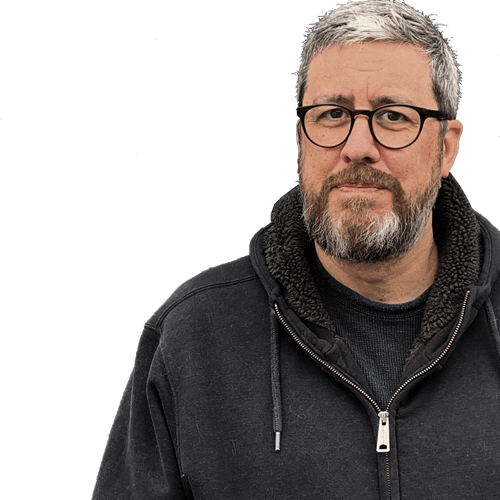
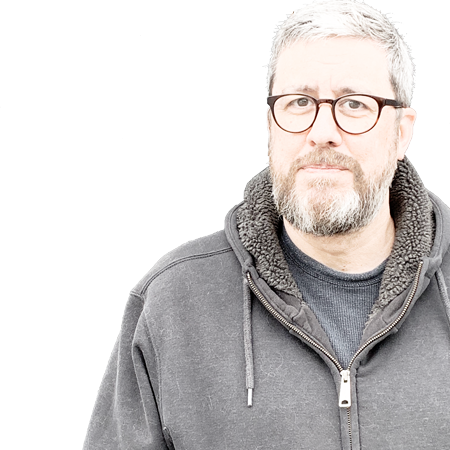
Updated home page
Revised the home page header

diff --git a/index.html b/index.html
@@ -1,92 +1,23 @@
 <!doctype html>
 <html lang="en">
   <head>
-    <!-- Global site tag (gtag.js) - Google Analytics -->
-    <script async src="https://www.googletagmanager.com/gtag/js?id=UA-44441011-2"></script>
-    <script>
-      window.dataLayer = window.dataLayer || [];
-      function gtag(){dataLayer.push(arguments);}
-      gtag('js', new Date());
-    
-      gtag('config', 'UA-44441011-2');
-    </script>
-    <!-- Google Tag Manager -->
-    <script>(function(w,d,s,l,i){w[l]=w[l]||[];w[l].push({'gtm.start':
-    new Date().getTime(),event:'gtm.js'});var f=d.getElementsByTagName(s)[0],
-    j=d.createElement(s),dl=l!='dataLayer'?'&l='+l:'';j.async=true;j.src=
-    'https://www.googletagmanager.com/gtm.js?id='+i+dl;f.parentNode.insertBefore(j,f);
-    })(window,document,'script','dataLayer','GTM-WW8D6FM');</script>
-    <!-- End Google Tag Manager -->
     <meta charset="utf-8">
     <meta name="viewport" content="width=device-width, initial-scale=1">
     <title>Chris Fournier. American Made. Powered by Coffee.</title>
-    <link rel="canonical" href="https://chris.blackcoffeeshoppe.com/">
-    <meta name="robots" content="index, follow">
-    <meta name="theme-color" content="#384332">
-    <meta name="apple-mobile-web-app-status-bar-style" content="#384332">
-    <meta name="apple-mobile-web-app-capable" content="yes">
-    <meta name="author" content="https://chris.blackcoffeeshoppe.com/">
-    <meta name="description" content="I'm a seasoned user experience designer who works in code and Git. I use my background in marketing and user experience design to solve problems and deliver intuitive user experiences.">
-    <meta property="og:description" content="I'm a seasoned user experience designer who works in code and Git. I use my background in marketing and user experience design to solve problems and deliver intuitive user experiences.">
-    <meta property="og:image" content="https://chris.blackcoffeeshoppe.com/assets/icons/thumbnail.jpg">
-    <meta property="og:locale" content="en">
-    <meta property="og:site_name" content="Chris Fournier. American Made. Powered by Coffee.">
-    <meta property="og:title" content="Chris Fournier. American Made. Powered by Coffee.">
-    <meta property="og:type" content="website">
-    <meta property="og:url" content="https://chris.blackcoffeeshoppe.com/">
-    <meta property="article:published_time" content="2020-04-06T01:00:00Z">
-    <meta property="article:author" content="Chris Fournier">
-    <meta property="article:section" content="website">
-    <meta name="twitter:card" content="summary_large_image">
-    <meta name="twitter:domain" content="Chris Fournier. American Made. Powered by Coffee.">
-    <meta name="twitter:url" content="https://chris.blackcoffeeshoppe.com/">
-    <meta name="twitter:site" content="https://chris.blackcoffeeshoppe.com/">
-    <meta name="twitter:creator" content="Chris Fournier">
-    <meta name="twitter:title" content="Chris Fournier. American Made. Powered by Coffee.">
-    <meta name="twitter:description" content="I'm a seasoned user experience designer who works in code and Git. I use my background in marketing and user experience design to solve problems and deliver intuitive user experiences.">
-    <meta name="twitter:image:src" content="https://chris.blackcoffeeshoppe.com/assets/icons/thumbnail.jpg">
-    <meta name="google-site-verification" content="YgnQtrZEtnYHo_da7UW1Ixj8NRA9WNH4MvU5nW0nBvA" />
-    <link rel="canonical" href="https://chris.blackcoffeeshoppe.com/">
-    <link rel="image_src" href="https://chris.blackcoffeeshoppe.com/assets/icons/thumbnail.jpg">
-    <link rel="apple-touch-icon" sizes="180x180" href="https://chris.blackcoffeeshoppe.com/assets/icons/apple-touch-icon.png">
-    <link rel="icon" type="image/png" sizes="32x32" href="https://chris.blackcoffeeshoppe.com/assets/icons/favicon-32x32.png">
-    <link rel="icon" type="image/png" sizes="16x16" href="https://chris.blackcoffeeshoppe.com/assets/icons/favicon-16x16.png">
-    <link rel="manifest" href="https://chris.blackcoffeeshoppe.com/assets/icons/site.webmanifest">
-    <link rel="mask-icon" href="https://chris.blackcoffeeshoppe.com/assets/icons/safari-pinned-tab.svg" color="#384332">
-    <link rel="shortcut icon" href="https://chris.blackcoffeeshoppe.com/assets/icons/favicon.ico">
-    <meta name="msapplication-TileColor" content="#ffffff">
-    <meta name="msapplication-TileImage" content="https://chris.blackcoffeeshoppe.com/assets/icons/mstile-144x144.png">
-    <meta name="msapplication-config" content="https://chris.blackcoffeeshoppe.com/assets/icons/browserconfig.xml">
-    <meta name="wot-verification" content="61faca744d98b4807cee"/>
     <!-- css -->
     <link rel="stylesheet" href="https://cdnjs.cloudflare.com/ajax/libs/normalize/8.0.1/normalize.min.css">
     <link rel="stylesheet" href="https://maxcdn.icons8.com/fonts/line-awesome/1.1/css/line-awesome.min.css">
     <link rel="stylesheet" href="https://fonts.googleapis.com/css?family=Merriweather">
     <link rel="stylesheet" href="https://unpkg.com/aos@next/dist/aos.css">
-    <!-- <link rel="stylesheet" href="https://chris.blackcoffeeshoppe.com/assets/css/master.css"> -->
     <link rel="stylesheet" href="assets/css/master.css">
-    <script type="application/ld+json">
-      {
-        "@context": "http://www.schema.org",
-        "@type": "person",
-        "name": "Chris Fournier",
-        "description" : "User Experience Designer",
-        "url": "https://chris.blackcoffeeshoppe.com/"
-      }
-    </script>
   </head>
   <body data-aos="fade-in">
-    <!-- Google Tag Manager (noscript) -->
-    <noscript><iframe src="https://www.googletagmanager.com/ns.html?id=GTM-WW8D6FM"
-    height="0" width="0" style="display:none;visibility:hidden"></iframe></noscript>
-    <!-- End Google Tag Manager (noscript) -->
     <header class="welcome">
       <div class="bio" data-aos="fade-in" data-aos-delay="500" data-aos-duration="1500">
         <div class="logo">
           <svg xmlns="http://www.w3.org/2000/svg" viewBox="0 0 154 114"><title>Chris Fournier. American Made. Powered by Coffee.</title><path data-name="logo" d="M18.15 108.45h-2.47v5.45h1.17v-1.77h1.3a1.85 1.85 0 100-3.68zm-.15 2.61h-1.15v-1.54H18c.58 0 1 .3 1 .77s-.4.77-1 .77zm7.24-2.71a2.83 2.83 0 102.92 2.82 2.91 2.91 0 00-2.9-2.82zm0 4.59a1.76 1.76 0 111.76-1.77 1.76 1.76 0 01-1.74 1.77zm11.85-4.49h1.28l-1.66 5.45h-1.16l-1.3-3.74L33 113.9h-1.24l-1.67-5.45h1.28l1 3.66 1.21-3.66h1.28l1.22 3.66zm3.59 0h4.23v1.06h-3v1.08h2.75v1.06h-2.77v1.2h3v1.05H40.7zM52 110.29a1.9 1.9 0 00-2.07-1.84h-2.5v5.45h1.18v-1.77h.87l1.25 1.77h1.34l-1.35-1.9a1.77 1.77 0 001.28-1.71zm-2.2.77h-1.19v-1.54h1.16c.59 0 1 .3 1 .77s-.41.77-1 .77zm4.68-2.61h4.23v1.06h-3v1.08h2.69v1.06h-2.76v1.2h3v1.05h-4.19zm8.75 0h-2v5.45h2c1.84 0 3.15-1.13 3.15-2.73s-1.38-2.72-3.18-2.72zm.15 4.39h-.94v-3.33h.94a1.67 1.67 0 110 3.33zM76.43 111a1.31 1.31 0 00.76-1.21 1.47 1.47 0 00-1.66-1.37h-2.78v5.45h2.89c1 0 1.79-.6 1.79-1.47a1.53 1.53 0 00-1-1.4zm-2.51-1.58h1.32c.44 0 .75.25.75.6s-.31.6-.75.6h-1.32zm1.5 3.45h-1.5v-1.33h1.5a.72.72 0 01.81.67c0 .42-.34.69-.81.69zm8.13-4.45h1.32l-2.15 3.49v2h-1.19v-2l-2.15-3.49h1.38l1.36 2.39zm8.33 2.72a1.76 1.76 0 001.7 1.77 1.74 1.74 0 001.28-.61l.85.76a3 3 0 01-2.13.91 2.83 2.83 0 112.13-4.73l-.85.76a1.68 1.68 0 00-3 1.14zm8.75-2.82a2.83 2.83 0 102.92 2.82 2.91 2.91 0 00-2.92-2.79zm0 4.59a1.76 1.76 0 111.71-1.77 1.77 1.77 0 01-1.71 1.8zm5.39-4.49h4.23v1.06h-3.05v1.18h2.8v1.06h-2.8v2.15H106zm6.67 0h4.23v1.06h-3v1.18h2.75v1.06h-2.75v2.15h-1.19zm6.67 0h4.23v1.06h-3v1.08h2.76v1.06h-2.76v1.2h3v1.05h-4.23zm7.92 1.06v1.08H130v1.06h-2.75v1.2h3v1.05h-4.23v-5.45h4.23v1.06zM99.92 75.83c0-2.28 1.78-4.36 3.74-4.36a2.44 2.44 0 012.45 2.59c0 2.33-1.72 4.44-3.62 4.44a2.53 2.53 0 01-2.57-2.64zM154 90.59c0 4-4.11 7.13-4.86 7.13a1.13 1.13 0 01-1.18-1.18 2.09 2.09 0 01.42-1 3.76 3.76 0 00.74-2c0-1.42-.94-2.24-2.57-2.24-3 0-6.16 1.53-9.19 3s-5.7 2.79-8.31 2.79c-3.08 0-5.4-1.86-5.4-4.32a12 12 0 011.73-5.55 5.72 5.72 0 00.71-1.68 3.79 3.79 0 00-1.52-.41 37.48 37.48 0 01-3.67 7 10.86 10.86 0 01-9 4.94 7.41 7.41 0 01-6.28-3c-1.33 1.46-3.26 3-5.56 3a5.28 5.28 0 01-4.79-2.41 7.46 7.46 0 01-5 2.41c-3.13 0-5.4-1.83-5.4-4.36A14.48 14.48 0 0186 87.8a10.79 10.79 0 00.84-3.32s-.11-.13-.29-.13c-1.85 0-5.47 4.05-5.47 11.47a1.16 1.16 0 01-1.34 1.25c-2 0-3.52-.75-4-1.87a6.89 6.89 0 01-4.42 1.87c-3.08 0-5.4-1.86-5.4-4.32a12 12 0 011.73-5.55 5.72 5.72 0 00.71-1.68 3.79 3.79 0 00-1.52-.41 37.8 37.8 0 01-3.67 7c-.12.2-3 4.94-7.06 4.94-2.92 0-4.24-1.35-4.84-2.49a7.87 7.87 0 01-5.15 2.49 4.87 4.87 0 01-4.19-2.78 9 9 0 01-4.79 1.36 9.75 9.75 0 01-1.38-.1 7.55 7.55 0 01-4.55 1.52c-3.53 0-6.52-2.7-6.52-5.9 0-6.47 4.91-10.48 9.47-10.48a5.91 5.91 0 016.17 6.17 11.1 11.1 0 01-2 6 5.87 5.87 0 003.47-1.92 51.69 51.69 0 012.85-9.19 1.65 1.65 0 011.49-1c1.29 0 3.54 1.7 3.54 2.68a11.72 11.72 0 01-1.07 3.87 16.68 16.68 0 00-1.45 5.78s0 .67.41.67c1 0 2.4-1.33 3-2.47a40.82 40.82 0 001.68-4.87c.55-1.77 1.12-3.6 1.56-4.63a1.69 1.69 0 011.53-1c1.25 0 3.51 1.73 3.51 2.68a11.54 11.54 0 01-.94 3.67 16.18 16.18 0 00-1.27 5.51c0 .37.1 1 .75 1 1.5 0 3.2-2.22 3.73-3.07l.11-.15a23.27 23.27 0 003.12-6.29 4.15 4.15 0 01-1.21-3c0-1.79 1.5-3.32 2.73-3.32s2.89 1.39 2.89 2.48a4.2 4.2 0 01-.33 1.54 2.56 2.56 0 00-.18.68c0 .14.41.33 1.15.33a6.5 6.5 0 002-.29 4.27 4.27 0 011.22-.21 2.19 2.19 0 012.07 2.33 8.13 8.13 0 01-1.17 3.14 11.68 11.68 0 00-1.69 5c0 .59.25.86.79.86 1.37 0 2.87-1.86 3.38-2.57a48.6 48.6 0 012.79-8.85 1.59 1.59 0 011.49-1c1 0 1.9.59 2.82 1.85a10.57 10.57 0 016-2.24 4.11 4.11 0 013.78 3.79 11.66 11.66 0 01-1 3.84 13 13 0 00-1.07 4.23c0 .37.1 1 .76 1 .91 0 2.07-.85 3.21-2.34a46.2 46.2 0 013-9.47 1.65 1.65 0 011.49-1c1.3 0 3.55 1.7 3.55 2.68a11.79 11.79 0 01-.92 3.67 16.41 16.41 0 00-1.25 5.51c0 .37.1 1 .75 1 1.35 0 2.81-1.78 3.35-2.52V91c0-6.25 5.2-10.25 8.77-10.25a4.76 4.76 0 014.74 4.52 6.38 6.38 0 01-1.43 3.84 6.58 6.58 0 01-5.36 2.33 6.31 6.31 0 01-1-.12 2.79 2.79 0 002.88 2.5c3.36 0 5.53-3.27 5.56-3.31l.1-.14a22.94 22.94 0 003.12-6.29 4.15 4.15 0 01-1.21-3c0-1.79 1.5-3.32 2.73-3.32s2.89 1.39 2.89 2.48a4.2 4.2 0 01-.33 1.54 2.56 2.56 0 00-.18.68c0 .12.35.33 1.15.33a6.5 6.5 0 002-.29 4.27 4.27 0 011.22-.21 2.19 2.19 0 012.07 2.33 8.13 8.13 0 01-1.17 3.14 11.7 11.7 0 00-1.7 5c0 .58.26.86.8.86 1.51 0 3.9-1.56 6.43-3.21 3.58-2.35 7.64-5 11.49-5 3.32-.07 5.68 2.09 5.68 5.18zm-39.58-6.94c-1.62 0-3.49 3-3.81 4.94 2.28-.42 4-3.42 4-4.66.02-.28-.09-.28-.19-.28zM34.17 91a17.17 17.17 0 001-5.44c0-1.29-.34-1.94-1-1.94-1.39 0-4 3.51-4 8.51 0 1 .36 2.13 1.37 2.13a1.5 1.5 0 00.37 0 1.31 1.31 0 01-.31-.85A3 3 0 0134.05 91zm-6.8-8.44c0-1.87-1.84-1.87-2.73-1.87a19.76 19.76 0 00-3.29.3c0-.78.06-1.42.06-1.92 0-4.27 1.47-5.5 2.22-5.85h.89c1.63 0 3.62-1.31 3.62-2.83a2.29 2.29 0 00-2.53-2.17 8.32 8.32 0 00-4.51 1.61 23.65 23.65 0 00-9.23-2c-3.75 0-8.11 1.45-8.11 5.52 0 3.37 4.07 5.44 6.29 5.44a1.16 1.16 0 001.29-1.21c0-.38-.27-.64-.62-1a3.39 3.39 0 01-1.31-2.64c0-1.46 1.39-2.44 3.46-2.44a17.54 17.54 0 015.83.84c-.65.81-1.72 2.61-2.32 6.18l-.47 2.85c-.84 0-1.63-.27-1.63-.7a2.05 2.05 0 01.36-1.06 1.35 1.35 0 00.23-.63.81.81 0 00-.88-.86c-1 0-4.27 1.71-4.27 4 0 1.49 1.41 2.52 3.42 2.52.35 0 .91-.06 1.62-.14l.51-.06c-1.47 6.08-3.7 9-6.81 9a3.07 3.07 0 01-3.12-3.09A5.42 5.42 0 017.8 86.4c.6-.39.91-.63.91-1.24s-.6-1.14-1.45-1.14c-2.45 0-7.26 2.5-7.26 5.52s4.07 7.4 9.7 7.4c4.37 0 9.85-2.25 11.37-12.86 1 .16 1.07.55 1.07 1a.92.92 0 001 .94A5.14 5.14 0 0025.71 85c.62-.54 1.66-1.52 1.66-2.41zM94 48c0-2.28 1.82-4.35 3.82-4.35a2.47 2.47 0 012.52 2.58c0 2.32-1.77 4.43-3.71 4.43A2.56 2.56 0 0194 48zm24 15a2.65 2.65 0 01-.43 1.17c-.13.21-3.33 5.21-11.65 5.21a8.52 8.52 0 01-6.33-3 8 8 0 01-5.5 2.76 5.43 5.43 0 01-4.9-2.4 7.76 7.76 0 01-5.14 2.4c-3.15 0-5.53-1.85-5.53-4.31a11.66 11.66 0 011.77-5.52 5.38 5.38 0 00.73-1.68 4.07 4.07 0 00-1.57-.4 36.15 36.15 0 01-3.76 7c-.12.2-3.11 4.92-7.23 4.92-3.26 0-5.54-1.93-5.54-4.69a12.63 12.63 0 011.32-4.76 7.21 7.21 0 00.75-2.21c0-.63-.22-.63-.38-.63-2.23 0-5.46 3.93-5.46 11a1.12 1.12 0 01-1.21 1.24c-1.6 0-3.91-.56-4.32-2.06a12.91 12.91 0 01-7.94 2.79c-5.17 0-10.74-3-10.74-9.75a16.09 16.09 0 01.53-3.94C31 55 28 52.46 28 49.71c0-4.53 6.35-8 9-8 1.11 0 1.17.75 1.17.9 0 .55-.39.82-.8 1.12l-.16.11a5.77 5.77 0 00-2.89 5 4.05 4.05 0 002.42 3.88c3.18-6.87 10-12.59 15.22-12.59A6.53 6.53 0 0158.08 46c0 4.27-6.27 10.57-16.13 10.92a15.89 15.89 0 00-.38 3.4c0 4.41 1.67 6.37 5.42 6.37a9.85 9.85 0 006.94-3.71c1.17-6.91 6-21.75 13-21.75A4.48 4.48 0 0171 45c0 2.4-2.56 6-4.16 8a6.52 6.52 0 011.65-.22 3.33 3.33 0 013 3.12 11.3 11.3 0 01-1.2 4A12.85 12.85 0 0069 64.68c0 .37.1 1 .78 1 1.52 0 3.28-2.22 3.82-3.07l.11-.15a22.6 22.6 0 003.2-6.26 4.07 4.07 0 01-1.24-3 3.35 3.35 0 012.8-3.32c1.3 0 3 1.39 3 2.47a4.3 4.3 0 01-.33 1.55 2.1 2.1 0 00-.18.67c0 .11.35.33 1.17.33a7.17 7.17 0 002-.29 4.48 4.48 0 011.25-.21 2.2 2.2 0 012.12 2.32 7.85 7.85 0 01-1.2 3.13 11.54 11.54 0 00-1.73 5c0 .58.26.86.81.86 1.3 0 2.68-1.56 3.3-2.34a43.19 43.19 0 013-9.43 1.67 1.67 0 011.52-1c1.32 0 3.63 1.69 3.63 2.66a11.55 11.55 0 01-.94 3.66 16.07 16.07 0 00-1.28 5.49c0 .37.1 1 .77 1s1.84-.66 2.89-1.84a2.9 2.9 0 01-.05-.48c0-2.28 3.15-3.26 4-3.48l2.57-3.95c1.84-2.64 3.24-3.81 4.54-3.81 1 0 2.44 1.19 2.44 1.89a2.37 2.37 0 01-.42 1.1 3.21 3.21 0 00-.53 1.43 9.06 9.06 0 00.81 3.59 7.73 7.73 0 01.74 3 5.55 5.55 0 01-.36 2 9.22 9.22 0 003.46-2.73 1.54 1.54 0 011.2-.74 1.31 1.31 0 011.33 1.34zm-13 3.74c.92 0 1.72-1.28 1.72-2.74a12.06 12.06 0 00-.64-3.17c-.15-.5-.29-1-.4-1.46a30.31 30.31 0 00-2.14 3.53c-.02 1.81.36 3.91 1.46 3.91zM67.82 44.72c-.68 0-2.73 2.64-5.53 9.57 2.64-2.82 5.79-7.54 5.79-9.29 0-.26-.08-.28-.26-.28zm-14.42-.06a.93.93 0 00-1.06-1c-3 0-7.18 4.47-9.35 9.91C49.37 53 53.4 48 53.4 44.66zm-20.63-13l.35.85h1.33L32.21 27h-1.32l-2.24 5.45H30l.35-.85zm-1.22-3l.81 2h-1.63zm9.77.45l-1.69 3.08-1.71-3.08v3.39h-1.17V27h1.17l1.71 3.08L41.32 27h1.19v5.45h-1.19zm8.15 3.39h-4.23V27h4.23v1.06h-3v1.08h2.76v1.06h-2.81v1.2h3zm7.14 0l-1.35-1.9a1.78 1.78 0 001.25-1.71A1.9 1.9 0 0054.44 27H52v5.45h1.17V30.7H54l1.26 1.77zm-2.3-2.84h-1.17v-1.57h1.17c.58 0 1 .3 1 .77s-.42.77-1 .77zM59 27h1.19v5.45H59zm4.88 2.72a1.77 1.77 0 001.71 1.77 1.72 1.72 0 001.28-.62l.85.77a3 3 0 01-2.13.91 2.83 2.83 0 112.13-4.73l-.85.76a1.71 1.71 0 00-1.28-.58 1.76 1.76 0 00-1.71 1.74zm10.2 2.73h1.33L73.17 27h-1.32l-2.24 5.45h1.32l.35-.85h2.45zm-2.39-1.85l.82-2 .81 2zm9.84 1.85L78.88 29v3.52h-1.17V27h1.17l2.65 3.52V27h1.18v5.45zm10.68-.31l-1.7-3.08v3.39h-1.18V27h1.18l1.7 3.08 1.7-3.08h1.18v5.45h-1.18v-3.37zm6.84-.54h2.45l.35.85h1.33L100.94 27h-1.32l-2.24 5.45h1.32zm1.23-3l.81 2h-1.63zm7.16-1.6h-2v5.45h2c1.85 0 3.16-1.13 3.16-2.73S109.29 27 107.44 27zm.16 4.39h-.95v-3.31h.95a1.67 1.67 0 110 3.33zm5.52-4.39h4.23v1.06h-3v1.08h2.76v1.06h-2.81v1.2h3v1h-4.23zm-42.18-9a1.16 1.16 0 00-.15.43 1.73 1.73 0 01-.14.42.65.65 0 01-.24.24 3.57 3.57 0 01-.48.28 3.49 3.49 0 01-.53.24 1.11 1.11 0 01-.38.1h-.1l-.08-.06a.69.69 0 01-.14-.12c-.06-.06-.12-.11-.17-.17l-.15-.14-.06-.07v-.09h.39a.69.69 0 000-.2.64.64 0 010-.2.93.93 0 010-.13h.06l.06-.07a.48.48 0 000-.25h-.3v-.54a1 1 0 00-.34.06 1 1 0 01-.34.06h-.08v-.07l.08-.11.09-.12-.06-.05h-.17l-.13.07-.13.07a.76.76 0 01-.18.06.39.39 0 01-.15 0 .85.85 0 01-.17-.06l-.17-.08-.13-.06h-.06l-.22.08-.33.14-.32.14-.21.09-.29.11a1.19 1.19 0 01-.32 0h-.1v-.1h-.28v-.25h-.5v-.08l.34-.22a.32.32 0 00-.08-.06l-.09-.07a.12.12 0 01.08-.12.74.74 0 01.19-.05l.19-.06a.15.15 0 00.12-.12h-.32a.39.39 0 010-.09.32.32 0 01.16-.1l.23-.06h.25l.21-.06a.44.44 0 00-.19-.07.24.24 0 01-.15-.1l.05-.06H67.64a1.66 1.66 0 00.53-.19c.15-.08.3-.16.44-.25a5.05 5.05 0 01.45-.25 1.91 1.91 0 01.51-.17H69.8 69l-.25-.47a.18.18 0 01-.15-.17.24.24 0 01.07-.19.28.28 0 00.06-.18v-.05l-.25-.07a.9.9 0 01-.22-.1.52.52 0 01-.16-.17.46.46 0 01-.06-.25.34.34 0 010-.09v-.19a1.24 1.24 0 00.1-.2 1.18 1.18 0 01.11-.19c0-.06.06-.1.07-.13h-.62v-.22a.19.19 0 010-.08.28.28 0 010-.09v-.06a.24.24 0 01-.18-.06.26.26 0 01-.1-.11.38.38 0 01-.06-.13s0-.08-.07-.09a.27.27 0 00-.16-.06.63.63 0 01-.23 0q-.08 0-.06-.3h-.4v-.28a.87.87 0 01-.33 0c-.07 0-.12-.13-.13-.29h-.07a.79.79 0 01-.2 0 .21.21 0 01-.18-.1.73.73 0 010-.08.41.41 0 000-.09l-.15-.05h-.17a.4.4 0 01-.13-.07.22.22 0 01-.06-.17.29.29 0 010-.14.37.37 0 000-.12h-.4a.16.16 0 01-.12-.15.45.45 0 000-.2l-.17-.16a.19.19 0 010-.09.46.46 0 000-.09 1.06 1.06 0 00-.18-.13l-.24-.15a1.2 1.2 0 01-.2-.18.22.22 0 01-.06-.21 1.34 1.34 0 01-.38-.14.7.7 0 01-.3-.26v-.11a.19.19 0 000-.08.4.4 0 00-.2-.07h-.25a.59.59 0 01-.23-.13.61.61 0 01-.17-.3v-.1a.66.66 0 000-.13.48.48 0 00-.16-.12l-.22-.07a1 1 0 01-.23-.13.68.68 0 01-.19-.26v-.11-.1a.26.26 0 010-.07.36.36 0 00-.18-.12l-.24-.06a1.38 1.38 0 01-.28-.13 1.09 1.09 0 01-.33-.32v-.18a.37.37 0 00-.13-.12l-.15-.1v-.17h-.09l-.14-.07L59.4 5h-.09l.12-.12H60.77 60.44L60 4.62l-.39-.08-.24-.06h-.11a.1.1 0 01-.06-.1H61l-2.12-.7H59.05a14 14 0 012 .38 17.92 17.92 0 012 .64h.12L59 2.15a.11.11 0 01-.1-.15h.24a.53.53 0 01.23.06l.3.1.38.15.41.15.39.15.3.12.15.06.33.15.48.23.57.27.56.27.48.23.32.15h.09L59.82 1.2l-.08-.08a.73.73 0 00-.09-.09.18.18 0 010-.06h.13l.8.41 4.5 2.71h.18l-.08-.08-.1-.08-.18-.15-.3-.26c-.12-.1-.25-.21-.37-.33l-.38-.32-.3-.26-.17-.16a2.47 2.47 0 01-.3-.27l-.43-.43-.43-.43-.27-.29-.11-.13-.2-.24-.21-.26-.17-.21a.43.43 0 01-.07-.23h.07l2.28 2 .06.06 3 2.49v-.06L66.07 4l-.48-.57-.45-.59a5.84 5.84 0 01-.41-.64l-.14-.24-.15-.29a1.88 1.88 0 01-.12-.3 1 1 0 010-.28l.11.12L67 4.59a4.88 4.88 0 00.87.89 10 10 0 001.05.75c.36.23.73.45 1.1.67a11.53 11.53 0 011 .69l.06.07.11.11.11.11h.07l.16.08.16.08.17.1.12.08a2.23 2.23 0 01.34.35c.1.13.19.27.28.4l.27.4a1.85 1.85 0 00.31.37 2.15 2.15 0 00.41-.32 4.4 4.4 0 01.39-.35 1.47 1.47 0 01.37-.24l.38-.22a1.21 1.21 0 00.24-.21.56.56 0 01.27-.18h.06a.2.2 0 00.08 0V8a.23.23 0 01.12-.16.93.93 0 01.25-.1l.25-.06h.18a.56.56 0 010-.3.22.22 0 01.1-.14.31.31 0 01.17 0h.2a.59.59 0 00.19 0 .2.2 0 00.13-.11.2.2 0 000-.14.2.2 0 010-.1.12.12 0 010-.1.44.44 0 01.17-.06h.62a1 1 0 01.12-.44.42.42 0 01.4-.18 1 1 0 01.29 0l.26.12.26.11a.58.58 0 00.26.06.72.72 0 00-.11-.36 1.7 1.7 0 01-.17-.32c0-.07.05-.11.1-.11h.14a1.71 1.71 0 01.55.09 2.45 2.45 0 01.5.22 4.63 4.63 0 01.46.31l.42.35a1.09 1.09 0 000-.26c0-.09-.07-.18-.1-.26l-.1-.25a.81.81 0 010-.27.14.14 0 01.1-.15.38.38 0 01.17 0 .91.91 0 01.44.12 2.59 2.59 0 01.39.25l.33.25a.39.39 0 00.23.12 3.44 3.44 0 000-.46 3.59 3.59 0 010-.47v-.19a.23.23 0 01.11-.08h.12a.73.73 0 01.43.12 1 1 0 01.28.32 1.5 1.5 0 01.15.42 3.49 3.49 0 010 .44H84v-.26c0-.12.06-.25.1-.4s.09-.3.15-.45a2.53 2.53 0 01.19-.44.93.93 0 01.23-.31.42.42 0 01.29-.13.21.21 0 01.15 0 .34.34 0 010 .18v.23a.61.61 0 000 .14v.08a3.46 3.46 0 01-.09.78 3.22 3.22 0 00-.09.76v.1l.25-.51.24-.47c.08-.15.16-.3.25-.45l.28-.49.12-.17a.86.86 0 01.14-.18.65.65 0 01.18-.15.36.36 0 01.2-.06.14.14 0 01.14.08.41.41 0 010 .16 3.14 3.14 0 01-.22 1.16c-.15.39-.3.75-.46 1.08v.06l.73-.74H86.95a.16.16 0 01.15.07.33.33 0 010 .17v.14a.37.37 0 010 .11.66.66 0 01-.08.13l-.1.17A4.57 4.57 0 0186 7.78a10.41 10.41 0 01-1.18.89c-.42.26-.85.52-1.3.76a14.87 14.87 0 00-1.28.76l-.14.11-.14.11a13.42 13.42 0 00-1.5 1.7 7.57 7.57 0 00-1.07 2v.09a.34.34 0 000 .11.15.15 0 000 .08l.71.34a4.53 4.53 0 01.66.41 2.43 2.43 0 01.54.52 1.81 1.81 0 01.31.72v.09a.71.71 0 000 .14v.23a2.29 2.29 0 00.15.42 1 1 0 01.09.43.5.5 0 01-.19.4.59.59 0 01-.41.16h-.09a.15.15 0 000-.06.14.14 0 000-.06v-.06a5.22 5.22 0 00-.44-.42 1.49 1.49 0 00-.38-.22 1.56 1.56 0 00-.44-.08h-.62a4 4 0 00-.89.09c-.26.07-.51.14-.76.23l-.75.3a6.88 6.88 0 01-.84.28 4.13 4.13 0 01-.75.15h-.76c-.57 0-1.14 0-1.69-.08a15.81 15.81 0 00-1.69-.09h-.37zm-5.87-8v.12s.05 0 .05-.06-.02.02-.05.02zm19.84-3.57v-.06z"/></svg>
         </div>
         <div class="text">
-          <h1>Hello!</h1>
           <p>I&rsquo;m Chris. I&rsquo;m a seasoned user experience designer who works in code and Git. I use my background in marketing and user experience design to solve problems and deliver intuitive user experiences.</p>
         </div>
       </div>

diff --git a/assets/css/master.css b/assets/css/master.css
@@ -600,13 +600,17 @@ header.welcome {
     display: flex;
     flex-direction: column;
     align-items: flex-start;
-    justify-content: center;
+    justify-content: flex-start;
     position: relative;
     width: 100%;
-    height: auto;
+    height: 100vh;
     padding: 2rem;
-    color: #ffffff;
-    background-color: #384332;
+    text-align: center;
+    color: #384332;
+    background-image: url(../images/profile-1x.png);
+    background-position: bottom right;
+    background-repeat: no-repeat;
+    background-size: 45vh;
     -webkit-transition: all 0.25s ease 0s;
     -moz-transition: all 0.25s ease 0s;
     -ms-transition: all 0.25s ease 0s;
@@ -621,15 +625,17 @@ header.welcome {
       width: 100%; }
       header.welcome .bio .logo svg {
         width: 100%;
-        max-width: 12rem;
-        fill: #ffffff; }
+        max-width: 10rem;
+        fill: #384332; }
     header.welcome .bio .text {
       padding: 2rem 0 0; }
 
 @media (orientation: landscape) {
   header.welcome .bio {
     flex-direction: row;
-    align-items: center; }
+    align-items: center;
+    text-align: left;
+    background-image: none; }
     header.welcome .bio .logo {
       width: 30%;
       padding: 0 2rem 0 0; }
@@ -642,7 +648,9 @@ header.welcome {
     flex-direction: row;
     align-items: center;
     justify-content: flex-start;
-    padding: 4rem 2rem; }
+    padding: 4rem 2rem;
+    text-align: left;
+    background-size: 40vh; }
     header.welcome .bio .logo {
       width: 30%;
       max-width: 32rem;
@@ -652,27 +660,10 @@ header.welcome {
 
 @media (min-width: 62rem) {
   header.welcome .bio {
-    padding: 6rem 2rem;
-    background-blend-mode: luminosity;
-    background-image: url(../images/profile-1x.png);
-    background-position: right 2rem;
-    background-repeat: no-repeat;
-    background-size: contain; }
+    padding: 6rem 2rem; }
     header.welcome .bio p {
       font-size: 1.25rem; } }
 
-/*
-@media (min-width: 62rem) {
-  header.welcome {
-    .bio {
-      align-items: center;
-      justify-content: flex-start;
-      h1 {font-size: 2.5rem;}
-      p {font-size: 1.25rem;}
-    }
-  }
-}
-*/
 @media (-webkit-min-device-pixel-ratio: 2) and (min-width: 62rem) {
   header.welcome .bio {
     background-image: url(../images/profile-2x.png); } }

diff --git a/assets/css/_pages/_home.scss b/assets/css/_pages/_home.scss
@@ -6,13 +6,17 @@ header.welcome {
     display: flex;
     flex-direction: column;
     align-items: flex-start;
-    justify-content: center;
+    justify-content: flex-start;
     position: relative;
     width: 100%;
-    height: auto;
+    height: 100vh;
     padding: 2rem;
-    color: $white;
-    background-color: $green;
+    text-align: center;
+    color: $green;
+    background-image: url(../images/profile-1x.png);
+    background-position: bottom right;
+    background-repeat: no-repeat;
+    background-size: 45vh;
     @include transition (all, 0.25s, ease);
     h1, p {max-width: 32rem;}
     .logo {
@@ -22,8 +26,8 @@ header.welcome {
       width: 100%;
       svg {
         width: 100%;
-        max-width: 12rem;
-        fill: $white;
+        max-width: 10rem;
+        fill: $green;
       }
     }
     .text {
@@ -37,6 +41,8 @@ header.welcome {
     .bio {
       flex-direction: row;
       align-items: center;
+      text-align: left;
+      background-image: none;
       .logo {
         width: 30%;
         padding: 0 2rem 0 0;
@@ -56,6 +62,8 @@ header.welcome {
       align-items: center;
       justify-content: flex-start;
       padding: 4rem 2rem;
+      text-align: left;
+      background-size: 40vh;
       .logo {
         width: 30%;
         max-width: 32rem;
@@ -72,28 +80,10 @@ header.welcome {
   header.welcome {
     .bio {
       padding: 6rem 2rem;
-      background-blend-mode: luminosity;
-      background-image: url(../images/profile-1x.png);
-      background-position: right 2rem;
-      background-repeat: no-repeat;
-      background-size: contain;
       p {font-size: 1.25rem;}
     }
   }
 }
-
-/*
-@media (min-width: 62rem) {
-  header.welcome {
-    .bio {
-      align-items: center;
-      justify-content: flex-start;
-      h1 {font-size: 2.5rem;}
-      p {font-size: 1.25rem;}
-    }
-  }
-}
-*/
 
 @media (-webkit-min-device-pixel-ratio: 2) and (min-width: 62rem) {
   header.welcome {
